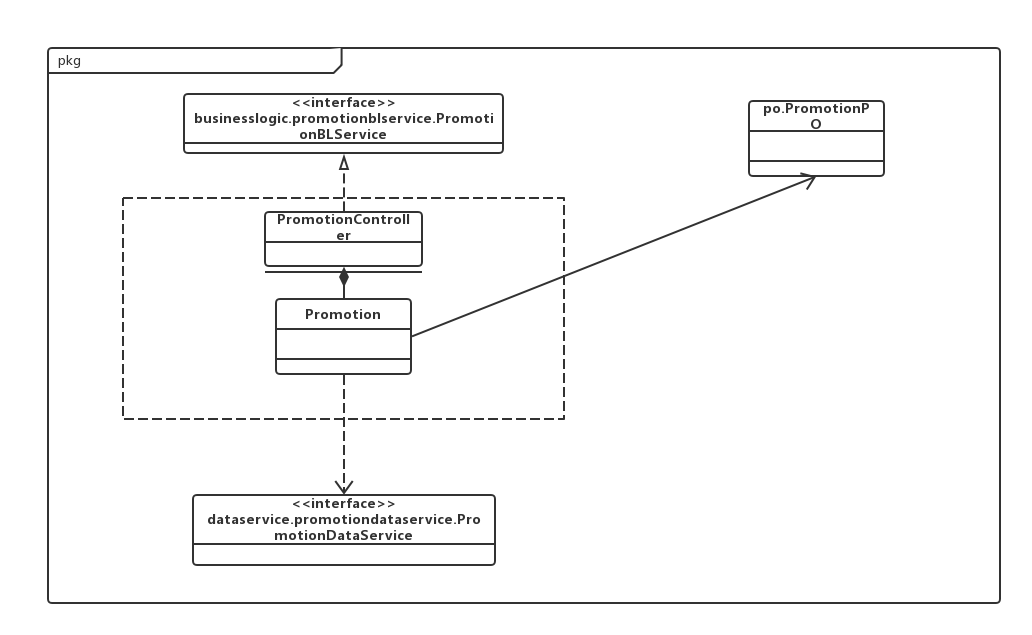
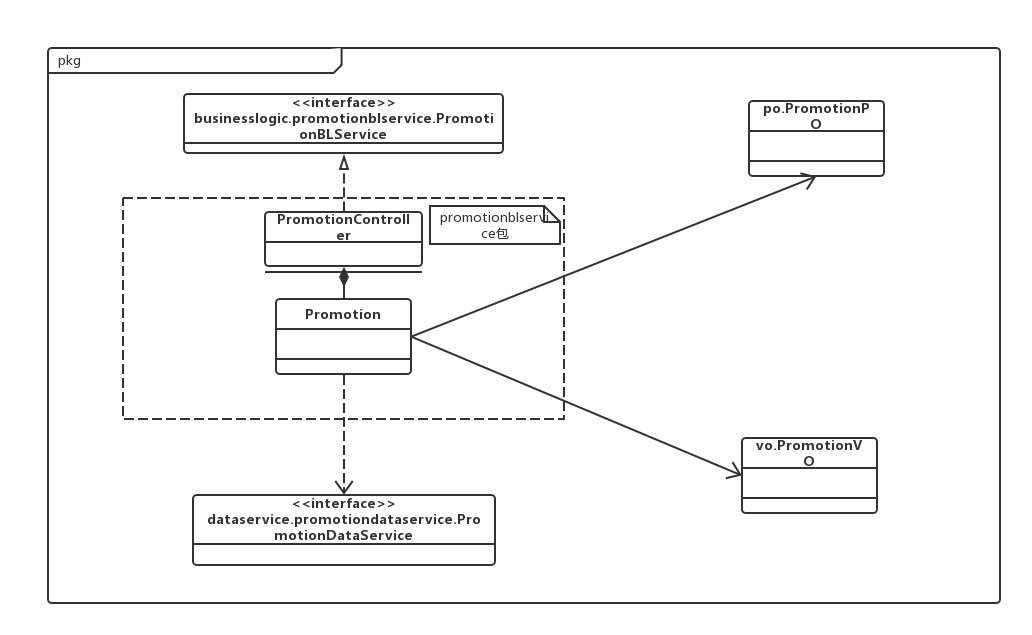
update detail design

diff --git a/详细设计/进销存系统软件详细设计描述文档 .md b/详细设计/进销存系统软件详细设计描述文档 .md
@@ -39,171 +39,10 @@
 
 业务逻辑层的开发包图参见软件体系结构文档图。
 
-####4.1.1salebl模块
-
-（1）模块概述
-
-salebl模块承担的需求参见需求规格说明文档，功能需求及相关非功能需求参见需求规格说明文档。
-
-Sale模块的职责及接口参见软件系统结构描述文档表
-
-（2）整体结构
-
-根据体系结构的设计，我们将系统分为展示层、业务逻辑层、数据层。每一层之间为了增加灵活性，我们会添加接口，比如展示层和业务逻辑层之间我们添加businesslogicservice.saleblservice.SaleBLService接口.业务逻辑层和数据层之间添加dataservice.saledataservice.SaleDataService接口。为隔离业务逻辑职责和逻辑控制职责，我们增加了SaleController，这样SaleController会将对销售的业务逻辑处理委托给Sale对象。SalePO是作为销售记录的持久化对象被添加到设计模型中去的。
-
-salebl模块的设计如图。
-
-![salebl模块设计](salebl模块设计.png)
 
 
 
-salebl模块各个类的职责如表所示。
-
-| 模块             | 职责                                       |
-| -------------- | ---------------------------------------- |
-| SaleController | 负责实现销售界面所需要的服务                           |
-| Sale           | 销售的领域模型对象，拥有一次销售所持有的会员、购买商品、总价、销售记录等信息，可以帮助完成销售界面所需要的服务 |
-
-（3）模块内部类的接口规范
-
-SaleController的接口规范如表所示。
-
-提供的服务（供接口）
-
-SaleController.import_
-
-| 语法   | public String import_() |
-| ---- | ----------------------- |
-| 前置条件 | 已选择进货，进货销售人员已登录         |
-| 后置条件 | 调用Sale领域对象的import_方法    |
-
-SaleController.importReturn
-
-| 语法   | public String importReturn() |
-| ---- | ---------------------------- |
-| 前置条件 | 已选择进货退货，进货销售人员已登录            |
-| 后置条件 | 调用Sale领域对象的importReturn方法    |
-
-SaleController.sell
-
-| 语法   | public String sell() |
-| ---- | -------------------- |
-| 前置条件 | 已选择销售，进货销售人员已登录      |
-| 后置条件 | 调用Sale领域对象的sell方法    |
-
-SaleController.sellReturn
-
-| 语法   | public String sellReturn() |
-| ---- | -------------------------- |
-| 前置条件 | 已选择销售退货，进货销售人员已登录          |
-| 后置条件 | 调用Sale领域对象的sellReturn方法    |
-
-SaleController.getPromotion
-
-| 语法   | public PromotionVO getPromotion() |
-| ---- | --------------------------------- |
-| 前置条件 | 存在促销策略，进货销售人员已登录                  |
-| 后置条件 | 调用Sale领域对象的getPromotion方法         |
-
-SaleController.getMember
-
-| 语法   | public MemberVO getMember(String name) |
-| ---- | -------------------------------------- |
-| 前置条件 | 存在该用户信息，进货销售人员已登录                      |
-| 后置条件 | 调用Sale领域对象的getMember方法                 |
-
-SaleController.getCommodity
-
-| 语法   | public CommodityVO getCommodity(int id) |
-| ---- | --------------------------------------- |
-| 前置条件 | 存在该商品信息，进货销售人员已登录                       |
-| 后置条件 | 调用Sale领域对象的getCommodity方法               |
-
-需要的服务（需接口）
-
-| 服务名                         | 服务             |
-| --------------------------- | -------------- |
-| Sale.import_()              | 进行一次进货         |
-| Sale.importReturn()         | 进行一次进货退货       |
-| Sale.sell()                 | 进行一次销售         |
-| Sale.sellReturn()           | 进行一次销售退货       |
-| Sale.getPromotion()         | 获取此次销售的促销策略    |
-| Sale.getMember(String name) | 获取与此次销售相关的客户信息 |
-| Sale.getCommodity(int id)   | 获取与此次销售相关的商品信息 |
-
-
-
-Sale的接口规范如表所示。
-
-提供的服务（供接口）
-
-Sale.import_
-
-| 语法   | public String import_() |
-| ---- | ----------------------- |
-| 前置条件 | 启动一次进货                  |
-| 后置条件 | 调用Sale领域对象的import_方法    |
-
-Sale.importReturn
-
-| 语法   | public String importReturn() |
-| ---- | ---------------------------- |
-| 前置条件 | 启动一次进货退货                     |
-| 后置条件 | 调用Sale领域对象的importReturn方法    |
-
-Sale.sell
-
-| 语法   | public String sell() |
-| ---- | -------------------- |
-| 前置条件 | 启动一次销售               |
-| 后置条件 | 调用Sale领域对象的sell方法    |
-
-Sale.sellReturn
-
-| 语法   | public String sellReturn() |
-| ---- | -------------------------- |
-| 前置条件 | 启动一次销售退货                   |
-| 后置条件 | 调用Sale领域对象的sellReturn方法    |
-
-Sale.getPromotion
-
-| 语法   | public PromotionVO getPromotion() |
-| ---- | --------------------------------- |
-| 前置条件 | 已应用促销策略                           |
-| 后置条件 | 调用Sale领域对象的getPromotion方法         |
-
-Sale.getMember
-
-| 语法   | public MemberVO getMember(String name) |
-| ---- | -------------------------------------- |
-| 前置条件 | 已存在该客户信息                               |
-| 后置条件 | 调用Sale领域对象的getMember方法                 |
-
-Sale.getCommodity
-
-| 语法   | public CommodityVO getCommodity(int id) |
-| ---- | --------------------------------------- |
-| 前置条件 | 已存在该商品信息                                |
-| 后置条件 | 调用Sale领域对象的getCommodity方法               |
-
-需要的服务（需接口）
-
-| 服务名                               | 服务              |
-| --------------------------------- | --------------- |
-| CommodityDataService.find(int id) | 根据ID查找商品        |
-| MemeberDataService.find(int id)   | 根据ID查找客户        |
-| SaleDataService.insert(SalePO po) | 插入单一持久化对象       |
-| DatabaseFactory.getSaleDatabase   | 得到Sale数据库的服务的引用 |
-
-（4）业务逻辑层的动态模型
-
-（5）业务逻辑层的设计原理
-
-利用委托式控制风格，每个界面需要访问的业务逻辑由各自的控制器委托给不同的领域对象。
-
-其他略。
-
-####4.1.2 memberbl模块
+####4.1.1 memberbl模块
 
 （1）模块概述
 
@@ -325,8 +164,31 @@ Member.updateMember
 | MemberDataService.getSalesDatabase       | 得到Member数据库的服务的引用 |
 | MemberDataService.insert(MemberPO po)    | 在数据库中插入MemberPO对象 |
 
+(4) 业务逻辑层的动态模型
 
-####4.1.3 tablebl模块
+如图是增加客户的顺序图
+
+![](管理客户_增加客户顺序图.png)
+
+删除客户信息的顺序图
+
+![](管理客户_删除客户顺序图.png)
+
+查找并获得客户信息的顺序图
+
+
+
+![](管理客户_查找客户顺序图.png)
+
+维护客户的顺序图参照添加客户
+
+获取客户列表的顺序图参照获取客户信息
+
+（5）业务逻辑层的设计原理
+
+	利用了委托式的控制风格，每个界面需要访问的业务逻辑由各自的控制器委托给不同的领域对象。
+
+####4.1.2 tablebl模块
 
 （1）模块概述
 
@@ -450,7 +312,16 @@ Table.MangeCourse.Red
 | tableDataService.insert(tablePO po) | 在数据库中插入tablePO对象 |
 | tableDataService.getbillDatabase    | 得到Bill数据库的服务的引用  |
 
-####4.2.4 commoditybl模块
+（4）业务逻辑层的动态设计模型
+
+如图是查看销售明细表的顺序图
+
+![](查看销售明细表顺序图.png)
+
+查看经营情况表和经营明细表的顺序图参照销售明细表。
+
+####4.2.3commoditybl模块
+
 （1）模块概述
 
 commodityebl模块承担的需求参见需求规格说明文档，功能需求及相关非功能需求参见需求规格说明文档。
@@ -596,7 +467,7 @@ Category.modifyCategory
 | CommodityDataService.delete(CommodityPO p) | 删除单一持久化对象            |
 | CommodityDataService.update(CommodityPO p) | 更新单一持久化对象            |
 | DatabaseFactory.getCommodityDatabase     | 得到Commodity数据库的服务的引用 |
-####4.2.5 accountbl模块
+####4.2.4 accountbl模块
 （1）模块概述
 
 accountbl模块承担的需求参见需求规格说明文档，功能需求及相关非功能需求参见需求规格说明文档。
@@ -716,7 +587,7 @@ Account.getAccountList
 | AccountDataService.update(CommodityPO p) | 更新单一持久化对象         |
 | DatabaseFactory.getCommodit              |                   |
 
-####4.2.6 logbl模块
+####4.2.5 logbl模块
 
 （1）模块概述
 
@@ -796,7 +667,7 @@ log.checkRecord
 
 
 
-#### 4.2.7 userbl模块
+#### 4.2.6 userbl模块
 
 （1）模块概述
 
@@ -902,7 +773,7 @@ User.updateUser
 
 
 
-#### 4.2.8 promotionbl模块
+#### 4.2.7 promotionbl模块
 
 （1）模块概述
 
@@ -1013,9 +884,24 @@ Promotion.getPromotinoList
 | PromotionDataService.insert(CommodityPO po) | 插入单一持久化对象     |
 | PromotionDataService.delete(CommodityPO p) | 删除单一持久化对象     |
 
+（4）业务逻辑层的动态模型
 
+如图是获取促销方案的顺序图
 
-#### 4.2.9 billbl模块
+![](获取促销方案顺序图.png)
+
+增加促销方案的顺序图
+
+![](增加促销方案顺序图.png)
+
+删除促销方案的顺序图
+
+![](删除促销方案顺序图.png)
+
+获取促销策略列表的顺序图参照获取促销策略。
+
+#### 4.2.8 billbl模块
+
 （1）模块概述
 
 billbl模块承担的需求参见需求规格说明文档，功能需求及相关非功能需求参见需求规格说明文档。
